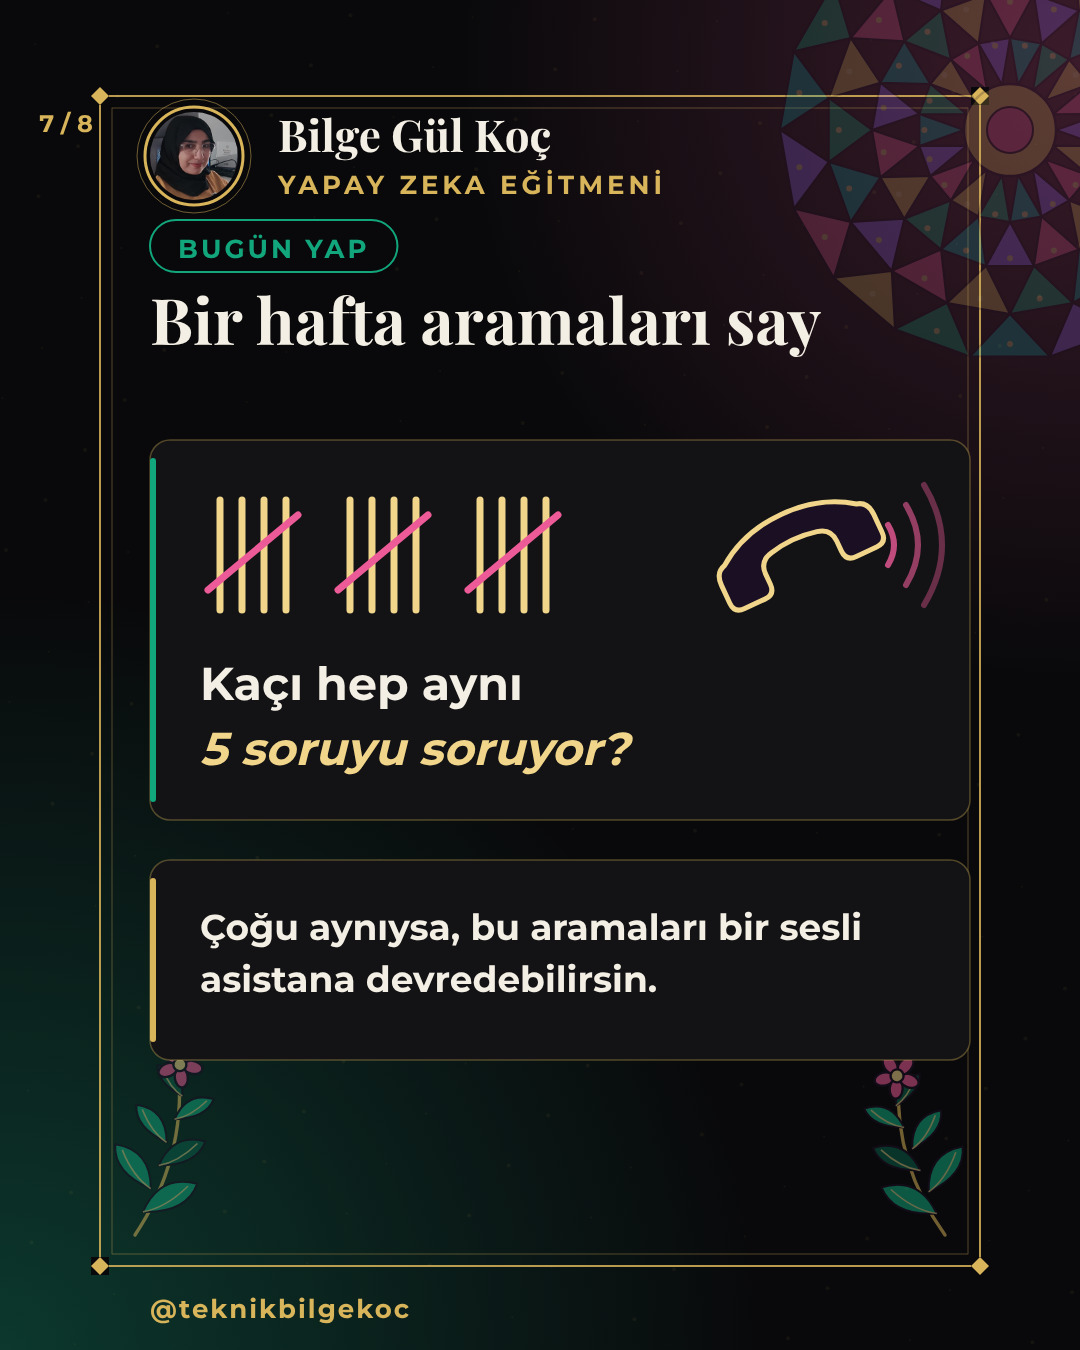
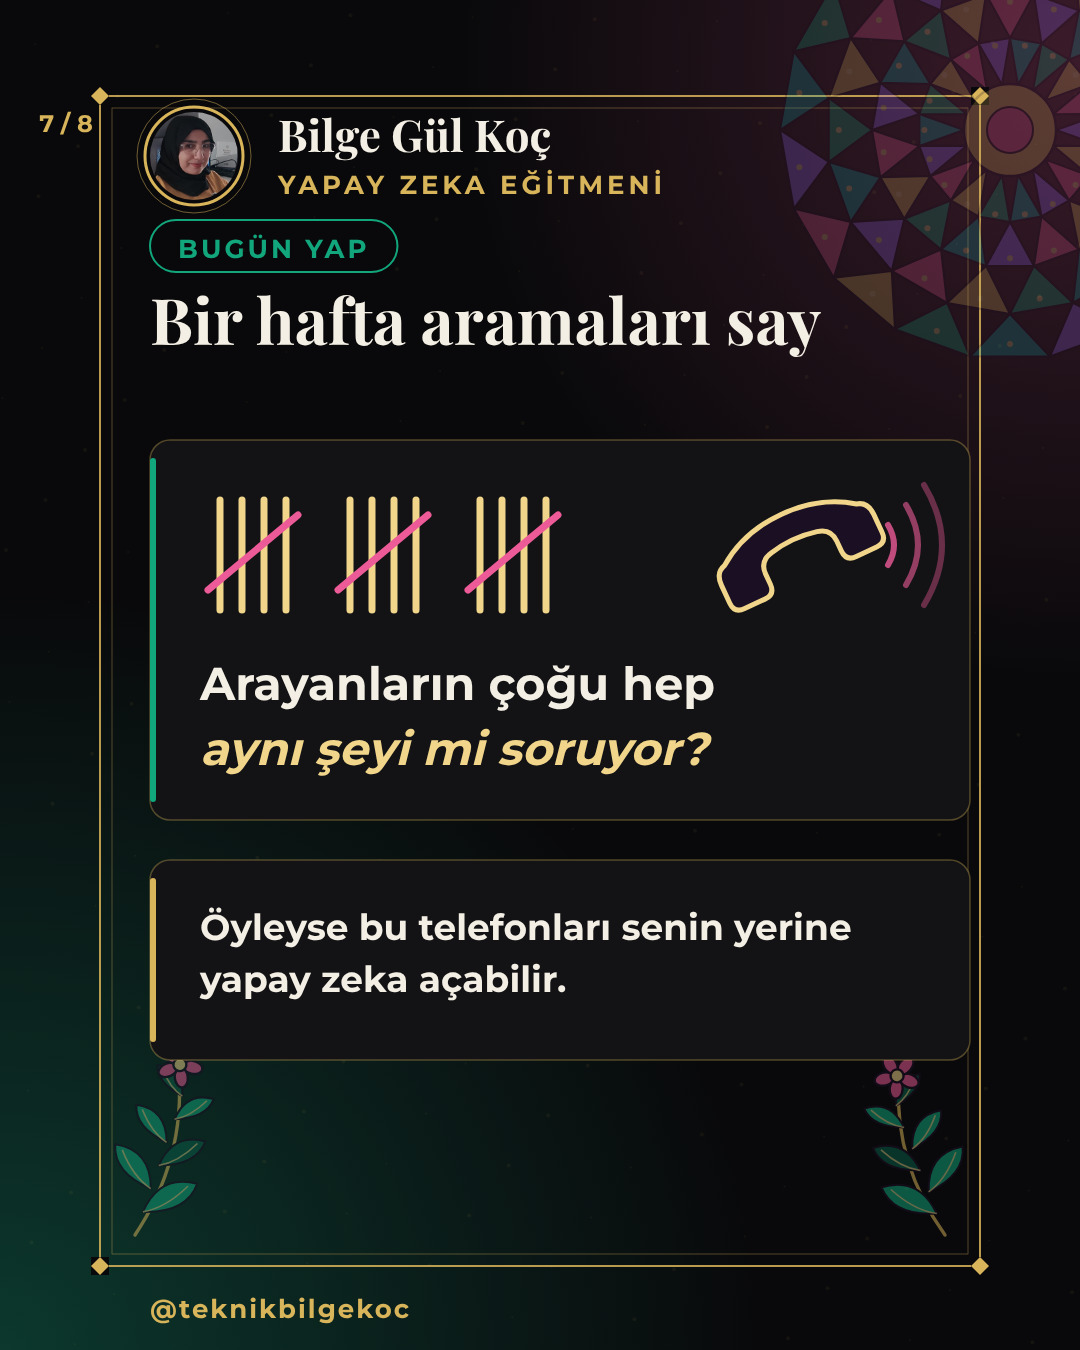
Doğal Türkçe: rakam başlık yasağı, konuşma fiilleri, bağımsız okur kontrolü; sade örnek yeniden yazıldı
Claude-Session: https://claude.ai/code/session_01XC4Pp79YRtqX5bGTif3hZa

Changed region(s): [[0.1833, 0.4978, 0.6722, 0.5911], [0.1833, 0.6533, 0.7944, 0.7467]]

diff --git a/2026-10-15-sade/s4.js b/2026-10-15-sade/s4.js
@@ -14,8 +14,8 @@ const sesDalga = (x, y, col, s = 1) => { for (let i = 1; i <= 3; i++) P(svg, `M$
 const ok = (x1, y, x2, col = C.gold) => { P(svg, `M${x1} ${y} H${x2}`, 'none', { stroke: col, 'stroke-width': 6, 'stroke-dasharray': '4 14', 'stroke-linecap': 'round' }); P(svg, `M${x2 - 14} ${y - 14} L${x2} ${y} L${x2 - 14} ${y + 14}`, 'none', { stroke: col, 'stroke-width': 6, 'stroke-linecap': 'round', 'stroke-linejoin': 'round' }); };
 async function build() {
   await fontsReady(); paper('purple'); footer('4 / 8'); suslemeler();
-  baslik('GERÇEK KULLANIM', 'Starlink\'te ne yapıyor?', C.emerald);
-  const adim = [['Arayanın kimliğini doğrular', C.emerald], ['Cihaz arızasını çözer', C.gold], ['Hesaba iade tanımlar', C.pink], ['Yeni cihazı kargolar', C.purple]];
+  baslik('ŞU AN KİM KULLANIYOR?', 'Starlink\'te neler yapıyor?', C.emerald);
+  const adim = [['Arayanı tanır, kontrol eder', C.emerald], ['Bozuk cihazla ilgilenir', C.gold], ['Gerekirse parasını geri öder', C.pink], ['Yeni cihaz gönderir', C.purple]];
   adim.forEach(([t, col], i) => {
     const y = 390 + i * 135;
     card(150, y, 820, 110, col);
@@ -23,8 +23,8 @@ async function build() {
     text(String(i + 1), 225, y + 70, { size: 40, font: 'Playfair Display', weight: 700, color: col, anchor: 'middle' });
     text(t, 290, y + 70, { size: 40, weight: 700, color: C.ivory });
   });
-  text('Günde yaklaşık 20 bin arama, birçok dilde.', 540, 990, { size: 30, weight: 700, color: C.goldHi, anchor: 'middle' });
-  text('Starlink: Musk\'ın uydu interneti', 540, 1040, { size: 28, italic: true, color: C.muted, anchor: 'middle' });
+  text('Her gün yaklaşık 20 bin kişiyle konuşuyor.', 540, 990, { size: 30, weight: 700, color: C.goldHi, anchor: 'middle' });
+  text('Starlink: Musk\'ın uydu internet şirketi', 540, 1040, { size: 28, italic: true, color: C.muted, anchor: 'middle' });
   kaydir();
   done();
 }

diff --git a/2026-10-15-sade/s2.js b/2026-10-15-sade/s2.js
@@ -17,14 +17,14 @@ async function build() {
   baslik('NE OLDU? · 14 EKİM', 'Telefonu yapay zeka açıyor', C.pink);
   card(150, 380, 820, 300, C.pink);
   ahize(300, 520, C.goldHi, 1.5); sesDalga(370, 505, C.pink, 1.2);
-  text('Elon Musk\'ın şirketi xAI,', 470, 480, { size: 36, weight: 700, color: C.ivory });
-  text('telefonda müşteriyle', 470, 530, { size: 36, weight: 700, color: C.ivory });
-  text('konuşan asistan çıkardı.', 470, 580, { size: 36, weight: 700, color: C.ivory });
+  text('Musk\'ın yapay zeka şirketi', 470, 480, { size: 33, weight: 700, color: C.ivory });
+  text('xAI, müşteriyle telefonda', 470, 530, { size: 33, weight: 700, color: C.ivory });
+  text('konuşan yapay zeka yaptı.', 470, 580, { size: 33, weight: 700, color: C.ivory });
   text('Adı: Grok Voice', 470, 640, { size: 32, color: C.goldHi });
   card(150, 720, 820, 270, C.gold);
-  text('Bir saniyeden kısa', 200, 810, { size: 50, weight: 700, color: C.ivory });
-  text('sürede cevap veriyor.', 200, 875, { size: 50, weight: 700, italic: true, color: C.goldHi });
-  text('Sözünü kesip konuşabiliyorsun.', 200, 940, { size: 34, color: C.muted });
+  text('Hiç bekletmeden', 200, 810, { size: 50, weight: 700, color: C.ivory });
+  text('cevap veriyor.', 200, 875, { size: 50, weight: 700, italic: true, color: C.goldHi });
+  text('O konuşurken araya girebiliyorsun.', 200, 940, { size: 34, color: C.muted });
   kaydir();
   done();
 }

diff --git a/2026-10-15-sade/s5.js b/2026-10-15-sade/s5.js
@@ -15,14 +15,14 @@ const ok = (x1, y, x2, col = C.gold) => { P(svg, `M${x1} ${y} H${x2}`, 'none', {
 async function build() {
   await fontsReady(); paper('pink'); footer('5 / 8'); suslemeler();
   baslik('SENİN İŞİNDE', 'Hangi işte ne yapar?', C.gold);
-  [['Klinik', 'Randevu alır, hatırlatır', C.emerald], ['E-ticaret', '"Kargom nerede?" sorusunu yanıtlar', C.gold], ['Danışmanlık', 'Ön görüşme yapıp takvime yazar', C.pink]].forEach(([a, b, col], i) => {
+  [['Salon / klinik', 'Randevu alır, hatırlatır', C.emerald], ['E-ticaret', '"Kargom nerede?" sorusunu yanıtlar', C.gold], ['Danışmanlık', 'Ön görüşme yapıp takvime yazar', C.pink]].forEach(([a, b, col], i) => {
     const y = 380 + i * 200;
     card(150, y, 820, 170, col);
     ahize(235, y + 85, col, 0.9);
     text(a, 320, y + 72, { size: 42, weight: 700, color: C.ivory });
     para(b, 320, y + 122, { size: 32, color: C.goldHi, width: 620 });
   });
-  text('Örnekler varsayımsaldır.', 540, 1010, { size: 30, italic: true, color: C.muted, anchor: 'middle' });
+  text('Bunlar örnek; gerçek bir kullanım değil.', 540, 1010, { size: 30, italic: true, color: C.muted, anchor: 'middle' });
   kaydir();
   done();
 }

diff --git a/2026-10-15-sade/s7.js b/2026-10-15-sade/s7.js
@@ -19,10 +19,10 @@ async function build() {
   // çetele
   for (let k = 0; k < 3; k++) { const x0 = 220 + k * 130; for (let i = 0; i < 4; i++) P(svg, `M${x0 + i * 22} 440 v110`, 'none', { stroke: C.goldHi, 'stroke-width': 7, 'stroke-linecap': 'round' }); P(svg, `M${x0 - 12} 530 L${x0 + 78} 455`, 'none', { stroke: C.pink, 'stroke-width': 7, 'stroke-linecap': 'round' }); }
   ahize(800, 495, C.goldHi, 1.4); sesDalga(870, 485, C.pink, 1);
-  text('Kaçı hep aynı', 200, 640, { size: 46, weight: 700, color: C.ivory });
-  text('5 soruyu soruyor?', 200, 705, { size: 46, weight: 700, italic: true, color: C.goldHi });
+  text('Arayanların çoğu hep', 200, 640, { size: 46, weight: 700, color: C.ivory });
+  text('aynı şeyi mi soruyor?', 200, 705, { size: 46, weight: 700, italic: true, color: C.goldHi });
   card(150, 800, 820, 200, C.gold);
-  para('Çoğu aynıysa, bu aramaları bir sesli asistana devredebilirsin.', 200, 880, { size: 36, weight: 700, color: C.ivory, width: 720 });
+  para('Öyleyse bu telefonları senin yerine yapay zeka açabilir.', 200, 880, { size: 36, weight: 700, color: C.ivory, width: 720 });
   kaydir();
   done();
 }

diff --git a/2026-10-15-sade/s6.js b/2026-10-15-sade/s6.js
@@ -15,7 +15,7 @@ const ok = (x1, y, x2, col = C.gold) => { P(svg, `M${x1} ${y} H${x2}`, 'none', {
 async function build() {
   await fontsReady(); paper('purple'); footer('6 / 8'); suslemeler();
   baslik('DİKKAT', 'Kurmadan önce bil', C.pink);
-  [['Fiyat', 'Dakikası 8 sent (saati 4,80 dolar)', C.gold], ['Kurulum', 'Hazır uygulama değil, yazılımcı gerekir', C.emerald], ['Türkçe', 'Türkçe konuşup konuşmadığı yazmıyor', C.pink], ['Rakamlar', '10\'da 7 oranı şirketin kendi açıklaması', C.purple]].forEach(([a, b, col], i) => {
+  [['Fiyat', 'Saati yaklaşık 5 dolar', C.gold], ['Kim kurar?', 'Kendin kuramıyorsun, yazılımcı lazım', C.emerald], ['Türkçe', 'Türkçe bilip bilmediği belli değil', C.pink], ['Rakamlar', 'Şirketin kendi sözü, kimse kontrol etmedi', C.purple]].forEach(([a, b, col], i) => {
     const y = 380 + i * 150;
     card(150, y, 820, 125, col);
     text(a.toUpperCase(), 200, y + 52, { size: 26, weight: 700, color: col, ls: 3 });

diff --git a/2026-10-15-sade/s1.js b/2026-10-15-sade/s1.js
@@ -16,10 +16,10 @@ async function build() {
   });
   perde(720, 1250);
   rozetZemin(); profil(150, 124, 112);
-  chip('TELEFONDA MÜŞTERİ HİZMETİ', 150, 905, C.gold);
-  serif('Musk\'ın yapay zekası', 150, 1010, { size: 72, color: C.ivory });
-  serif('10 aramadan 7\'sini', 150, 1094, { size: 72, color: C.goldHi });
-  serif('kendisi çözüyor.', 150, 1178, { size: 72, color: C.ivory, italic: true, weight: 600 });
+  chip('ELON MUSK · YAPAY ZEKA', 150, 905, C.gold);
+  serif('Musk\'ın şirketinde', 150, 1010, { size: 72, color: C.ivory });
+  serif('telefonları artık', 150, 1094, { size: 72, color: C.goldHi });
+  serif('yapay zeka açıyor.', 150, 1178, { size: 72, color: C.ivory, italic: true, weight: 600 });
   text('kaydır →', 950, 1318, { size: 52, font: 'Caveat', weight: 700, color: C.gold, anchor: 'end' }).dataset.free = 1;
   done();
 }

diff --git a/2026-10-15-sade/s3.js b/2026-10-15-sade/s3.js
@@ -27,7 +27,7 @@ async function build() {
   ahize(740, 580, C.emerald, 1.6); sesDalga(820, 570, C.goldHi, 1.3);
   text('Derdini', 770, 770, { size: 34, weight: 700, color: C.ivory, anchor: 'middle' });
   text('anlatırsın, aynı', 770, 815, { size: 34, weight: 700, color: C.ivory, anchor: 'middle' });
-  text('aramada çözülür', 770, 860, { size: 34, weight: 700, color: C.goldHi, anchor: 'middle' });
+  text('aramada hallolur', 770, 860, { size: 34, weight: 700, color: C.goldHi, anchor: 'middle' });
   kaydir();
   done();
 }

diff --git a/motor/dil-rehberi.md b/motor/dil-rehberi.md
@@ -40,26 +40,61 @@ Sürüm numarası (3.0, 4.5) kapakta gerekmez; caption'da kalsın.
 | beta | deneme sürümü |
 Teknik terim kaçınılmazsa: önce Türkçesi, sonra parantez içinde İngilizcesi; slayt başına en çok bir tane.
 
-## 4. Rakamları günlük dile çevir
-- "%70" → "10 aramadan 7'si"
-- "0,08 $/dakika" → "dakikası yaklaşık 3 TL" yalnızca kur kesinse; değilse "dakikası 8 sent"
-- "~20.000 çağrı/gün" → "günde yaklaşık 20 bin arama"
+## 4. Rakamı başlık yapma, durumu anlat
+- İstatistik cümlesi ("%70", "10 aramadan 7'sini çözüyor") çeviri kokar; Türkçede kimse böyle konuşmaz (Bilge, 15 Ekim 2026). Rakamın ne demek olduğunu günlük sözle anlat: "arayanların çoğunun işini yapay zeka hallediyor".
+- Rakam gerekiyorsa yalnızca ara slaytta ya da caption'da, yuvarlak ve sade: "her gün yaklaşık 20 bin arama". Kapakta rakam yok (çok çarpıcı ve tek başına anlaşılır değilse).
+- Para: "0,08 $/dakika" → "dakikası 8 sent".
+
+## 4b. Çevirmen fiili değil, konuşma fiili
+İngilizce fiilin sözlük karşılığı yerine Türkçede o durumda gerçekten söylenen fiili kullan:
+| Çeviri kokan | Doğal |
+|---|---|
+| sorunu çözüyor (resolves) | işini hallediyor, hallolur |
+| telefonları yanıtlıyor (handles calls) | telefonlara bakıyor, telefonu açıyor |
+| sunuyor, sağlıyor (offers, provides) | veriyor, var |
+| gerçekleştiriyor (performs) | yapıyor |
+| kullanıma sundu (launched) | çıkardı, kullanıma açtı |
+| desteklemiyor / desteği yazmıyor | bilmiyor / belli değil |
+| iade tanımlar (issues credits) | para iade eder |
+| kargolar (ships) | gönderir |
+| -ebilmektedir, -mektedir | -ebiliyor, -iyor |
+
+## 4c. Bilge'nin sesi (örnek cümleler, kendi Reels altyazılarından)
+Yazdığın cümle bunların yanında yabancı durmamalı:
+- "Claude'a tekrar tekrar aynı şeyleri yazıyorsan bu özelliği bilmen gerekiyor."
+- "Yorumlara cevap vermekle geçen zamanı işimde kullanmak istiyordum."
+- "En iyi fikrim masada değil, salıncak başında geldi."
+Ortak noktalar: günlük fiil, kısa cümle, okuyanın gerçek bir derdi, rakam ve jargon yok.
+
+## 4d. Okur kontrolünden çıkan dersler (15 Ekim 2026)
+- Tek isim, tek şey: aynı şeye bir slaytta "asistan", ötekinde "sesli asistan", ötekinde "yapay zeka" deme; okur farklı şeyler sanıyor. İki şirket varsa (xAI ve Starlink) ikisinin ilişkisini ilk geçtiği yerde tek cümleyle söyle.
+- Belirsiz fiil kullanma: "telefonlara bakıyor" tamir ediyor gibi anlaşıldı; "telefonları açıyor" dendi.
+- Kitap dili yok: "varsayımsal" yerine "Bunlar örnek; gerçek bir kullanım değil."; "kimliğini doğrular" yerine "arayanı tanır, kontrol eder".
+- Para: sent/dakika okura bir şey söylemiyor; saatlik ve yuvarlak ver ("saati yaklaşık 5 dolar").
+- Çekincenin NEDEN önemli olduğunu söyle: "Rakamları şirket açıkladı" değil "Şirketin kendi sözü, kimse kontrol etmedi".
+- Kitlenin işini say: "Klinik" yerine "Salon / klinik" gibi okurun kendini bulacağı iş adları.
 
 ## 5. Çekinceyi bir kez söyle
 - "Şirketin kendi verisi", "Türkiye'de geçerliliği belirtilmiyor" gibi uyarılar tek slaytta (DİKKAT) ya da caption'da bir kez yazılır; her slayta serpiştirilmez.
 
 ## 6. Kapak başlığı
 - Okuyan 2 saniyede "kim, ne yaptı, bana ne" anlamalı.
-- Örnek (kötü): "xAI'ın sesli ajanı 10 aramanın 7'sini insansız çözüyor."
-- Örnek (iyi): "Elon Musk'ın yapay zekası telefonları açıyor: 10 aramadan 7'sini kendi çözüyor."
+- Kötü (yayınlandı, anlaşılmadı): "xAI'ın sesli ajanı 10 aramanın 7'sini insansız çözüyor."
+- Kötü (çeviri kokuyor): "Musk'ın yapay zekası 10 aramadan 7'sini kendisi çözüyor."
+- İyi: "Musk'ın şirketinde telefonlara artık yapay zeka bakıyor."
 
 ## 7. Caption
 - İlk cümle de aynı sadelikte; jargon yok, özne tanıtılmış. Örnek:
-  "Elon Musk'ın yapay zeka şirketi xAI, telefonda müşteriyle konuşan bir sesli asistan çıkardı. Şirkete göre Starlink'in müşteri hattında 10 aramadan 7'sini kimseye aktarmadan çözüyor."
+  "Elon Musk'ın şirketi Starlink'i arayan müşterilerin çoğunun işini artık yapay zeka hallediyor."
 
 ## 8. Yayından önce son kontrol (her slayt için)
 1. Yasaklı kelime var mı? (Tablo 3)
 2. Yabancı şirket/ürün tanıtıldı mı? (Bölüm 2)
 3. Yüksek sesle okununca doğal mı?
-4. Bir rakam varsa günlük dile çevrildi mi?
+4. Rakam başlık olmuş mu, fiiller konuşma fiili mi? (Bölüm 4, 4b)
 5. Slayt başka hiçbir slayt görülmeden anlaşılıyor mu?
+
+## 9. Bağımsız okur kontrolü (zorunlu)
+Görseller üretilmeden önce bütün slayt metinlerini ve caption'ı tek listede topla ve bir alt ajana (Agent aracı) şu görevle ver:
+"Sen İstanbul'da küçük bir güzellik salonu işleten, yapay zekayı yalnızca duymuş, 40 yaşında birisin. Aşağıdaki her satırı oku. (a) İlk okuyuşta anlamadığın, (b) çeviri gibi duran ya da 'biz böyle konuşmayız' dediğin, (c) bilmediğin bir isim ya da kelime içeren satırları işaretle; her biri için arkadaşına anlatırken nasıl söyleyeceğini yaz. Sorunsuz satırları yazma."
+İşaretlenen her satırı önerilen doğal hâline göre düzelt; düzeltmeyi bir kez daha aynı kontrolden geçir. Bu adım atlanırsa yayın yapılmaz.

diff --git a/rutin-talimati.md b/rutin-talimati.md
@@ -24,7 +24,7 @@ GÖREV ADIMLARI
    - `cd motor && npm install`. `motor/README.md` (tasarım kuralları, öncelikli), `lib-koyu.js`, `illus-koyu.js`, `ornek-koyu-s1.js` (kapak), `ornek-koyu-s2.js` (şema) dosyalarını oku. Örnek dosyaları DEĞİŞTİRME; günün içeriği için `s1.js`, `s2.js` dosyalarını yeni yaz (örnekten kopyala). `node shot.js 1 2` → `out/01.png`, `out/02.png`.
    - Playwright bulunamazsa `npm install playwright`; Chromium yoksa `npx playwright install chromium`.
    - Marka stili: siyah zemin, gold, zümrüt yeşili, vurgu pembe veya mor; başlıklar Playfair Display, gövde Montserrat (ayrıntı README'de). Krem defter teması KULLANMA. Animasyon YOK.
-   - DİL VE YERELLEŞTİRME (Bilge, 15 Ekim 2026; tüm metinler için EN ÖNCELİKLİ kural): Takipçiler haberleri karışık ve anlaşılmaz buluyor. `motor/dil-rehberi.md` dosyasını oku ve uygula: İngilizce duyuruyu çevirme, Türkçe düşünerek yeniden anlat; yabancı şirket/ürünü ilk geçtiği yerde tanıt (ör. "Elon Musk'ın yapay zeka şirketi xAI"); "ajan" kelimesini HİÇBİR YERDE kullanma (Bilge açıkça istemiyor; yerine "yapay zeka asistanı"); yasaklı kelime listesindeki diğer jargonu (model, insansız, API, kredi tanımlamak vb.) da kullanma; rakamları günlük dile çevir ("10 aramadan 7'si"); çekinceyi bir kez söyle. Yayından önce rehberin 8. bölümündeki kontrolü her slayt için yap.
+   - DİL VE YERELLEŞTİRME (Bilge, 15 Ekim 2026; tüm metinler için EN ÖNCELİKLİ kural): Takipçiler haberleri karışık ve anlaşılmaz buluyor. `motor/dil-rehberi.md` dosyasını oku ve uygula: İngilizce duyuruyu çevirme, Türkçe düşünerek yeniden anlat; yabancı şirket/ürünü ilk geçtiği yerde tanıt (ör. "Elon Musk'ın yapay zeka şirketi xAI"); "ajan" kelimesini HİÇBİR YERDE kullanma (Bilge açıkça istemiyor; yerine "yapay zeka asistanı"); yasaklı kelime listesindeki diğer jargonu (model, insansız, API, kredi tanımlamak vb.) da kullanma; çekinceyi bir kez söyle. Rakamı kapak başlığı yapma, durumu günlük sözle anlat ("10 aramadan 7'sini çözüyor" değil "telefonlara artık yapay zeka bakıyor"); çevirmen fiili yerine konuşma fiili kullan (rehber 4b). Görseller üretilmeden önce rehberin 8. bölümündeki kontrolü yap ve 9. bölümdeki BAĞIMSIZ OKUR KONTROLÜNÜ alt ajanla mutlaka çalıştır; işaretlenen satırları düzeltmeden görsel üretme.
    - KAPAK SADELİĞİ (Bilge, 15 Ekim 2026): Kapakta zemin ve ana figür aynı anda mozaik OLAMAZ. Ya figür mozaik, zemin sakin (düz koyu renk ya da hafif ışıma), ya zemin desenli, figür düz ve net konturlu. Kapak tek bakışta "ne görüyorum?" testini geçmeli; ayrıntı `motor/README.md` "KAPAK SADELİĞİ".
    - KAVRAM KAPAĞI VE KURGU (Bilge, 14 Ekim 2026; kapak görseli ve slayt sırası için aşağıdaki eski maddelerin yerine geçer): Kapak görseli artık `sahneTek()`/karikatür yüz DEĞİL; `motor/sanat-koyu.js` ile haberin fikrini anlatan, Fahrelnissa Zeid esinli özgün METAFOR görseli çizilir. `motor/README.md` "KAVRAM KAPAĞI" bölümündeki metafor protokolünü uygula, `kapak-gecmisi.md`'ye bak ve yayından sonra yeni satır ekle. Slayt sırası `motor/karusel-stratejisi.md` iskeletine göre kurulur (kapak, ikinci kapak, önce/sonra, nasıl çalışıyor, senin işinde, dikkat, bugün yap, "bunu kime göndermelisin?"); en çok 10 slayt, tümü 1080×1350. 2. slayt tek başına gösterildiğinde de anlaşılır olmalı.
    - YENİ FORMAT (Bilge onayı, 13 Ekim 2026; aşağıdaki eski 2 sayfa kurallarının yerine geçer): Karusel 6-8 SLAYT (sayı serbest). Kapak aynı kalır (resim üstte, başlık altta) ama başlık `motor/kanca-formatlari.md` içindeki formatlardan biriyle (tercihen iki format birleşimi) yazılır ve haberin ÖZNESİNİ (şirket/ürün) ile okuyana değişeni birlikte söyler; genel soru tek başına yetmez. Değer slaytların İÇİNDE verilir; slayt 2-N görsel ağırlıklı, her slayt tek fikir, en çok ~25 kelime, ikon/akış/önce-sonra/şema ile anlatım; yazı yoğun kart yığını YOK. Her slaytın üstünde profil rozeti (`profil(150, 112, 88)`: fotoğraf + "Bilge Gül Koç / YAPAY ZEKA EĞİTMENİ"), sağ üstte soluk `kaleydoskop`, alt köşelerde `dal()` çiçekli yaprak dalları (Fahrelnissa Zeid esinli, kopya değil). Son slayt tek eylem: kaydet/gönder. Örnek: `2026-10-13-deneme/s1.js … s6.js` (kopyala). Sayfa numarası '1 / N'. JPEG adları: 01.jpg … 0N.jpg; yayın bağlantıları sırayla.
